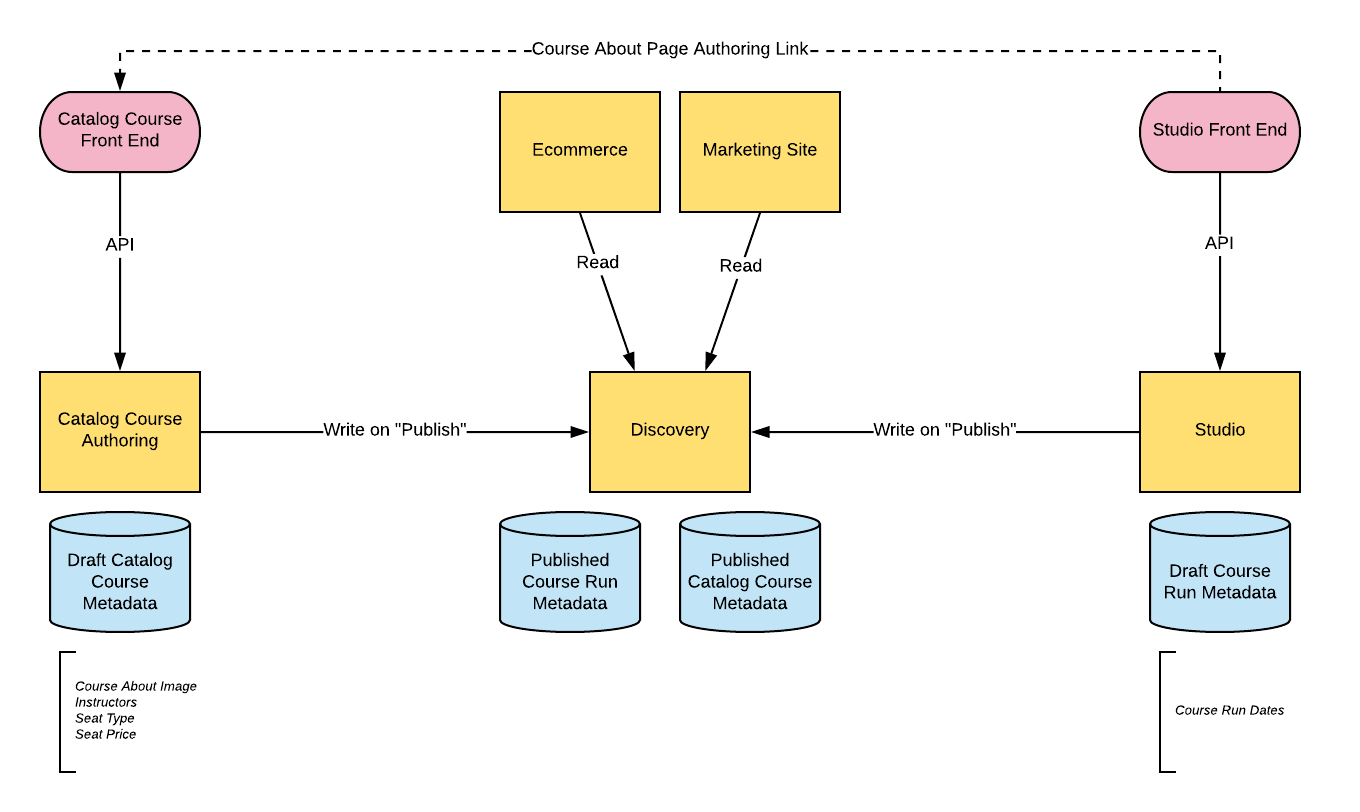
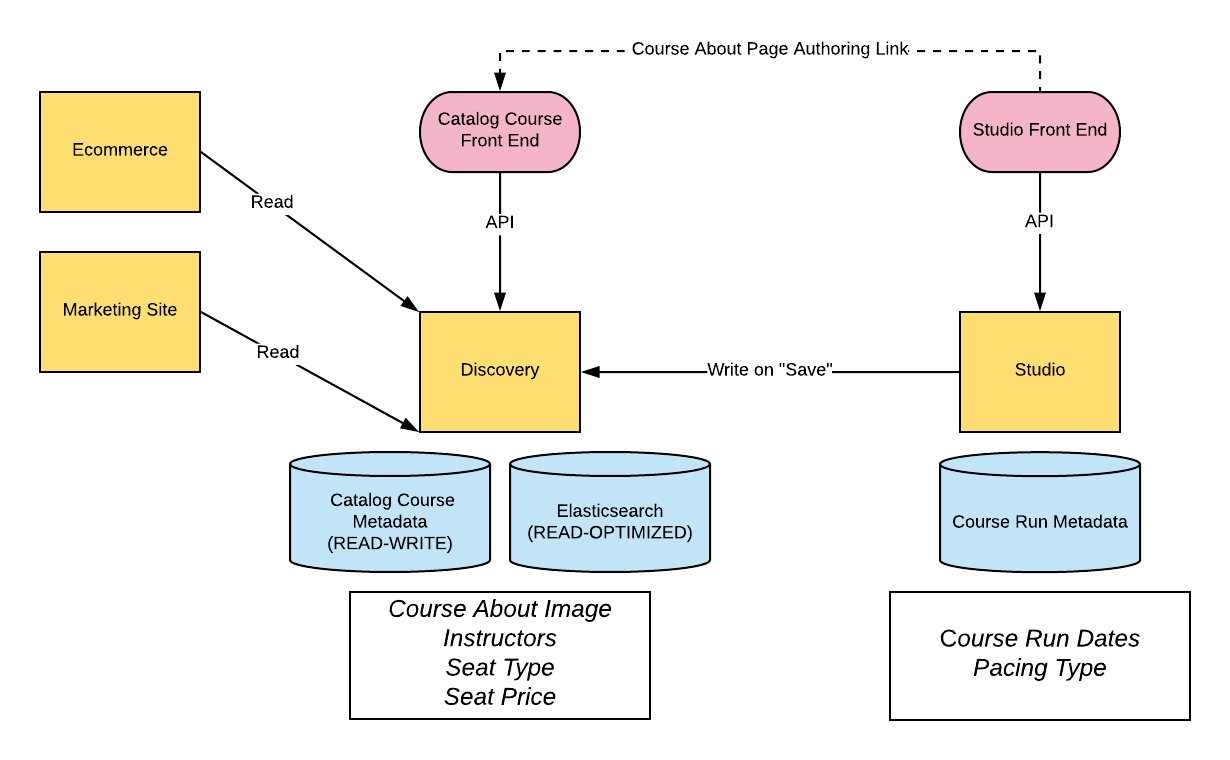
add new and improved diagram

diff --git a/oeps/oep-0027-course-metadata-authoring.rst b/oeps/oep-0027-course-metadata-authoring.rst
@@ -11,7 +11,7 @@ OEP-0027: Course Metadata Authoring
 +-----------------+----------------------------------------------------------------+
 | Authors         | Farhanah Sheets, Michael Roytman, Nimisha Asthagiri            |
 +-----------------+----------------------------------------------------------------+
-| Arbiter         | <TODO>                                                         |
+| Arbiter         | Wes Mason                                                      |
 +-----------------+----------------------------------------------------------------+
 | Status          | Under Review                                                   |
 +-----------------+----------------------------------------------------------------+
@@ -19,7 +19,7 @@ OEP-0027: Course Metadata Authoring
 +-----------------+----------------------------------------------------------------+
 | Created         | 2018-07-13                                                     |
 +-----------------+----------------------------------------------------------------+
-| `Review Period` | <TODO>                                                         |
+| `Review Period` | 2018-08-01 - 2018-08-15                                        |
 +-----------------+----------------------------------------------------------------+
 
 Context
@@ -46,7 +46,7 @@ Decisions
 * Conceptually, we will separate the notion of Course within the edX system in the following ways:
 
   * **Course Learning Content**, a course-team created package of learning material, with its weekly and sub-weekly structure
-    (i.e., Sections, Subsections, Units, etc) and learning blocks (i.e., leaf xBlocks), tied to specific dates of offering.
+    (i.e., Sections, Subsections, Units, etc.) and learning blocks (i.e., leaf xBlocks), tied to specific dates of offering.
      
     * This is what we call **(Studio) Course Run**, for the time being.
     * It is bound to the organization that authors the content.
@@ -72,7 +72,7 @@ Decisions
   implementation for each concept will also remain separate. This prevents us from needing to maintain these concepts across
   multiple domains: keep the authoring of Discoverable-Course (**Catalog Course**) within Discovery; keep the authoring of 
   Learning-Content-Course (**Course Run**) within Content Authoring. For example, concepts of price, marketing-publish-date,
-  marketing sales, discounts, etc do not need to bleed into the Content Authoring service.
+  marketing sales, discounts, etc., do not need to bleed into the Content Authoring service.
 
 * However, from the course author's perspective, we will provide a unified user experience by having the current Studio tool
   be the portal to authoring both Course Run metadata and Catalog Course metadata. So even though authoring of Catalog Course
